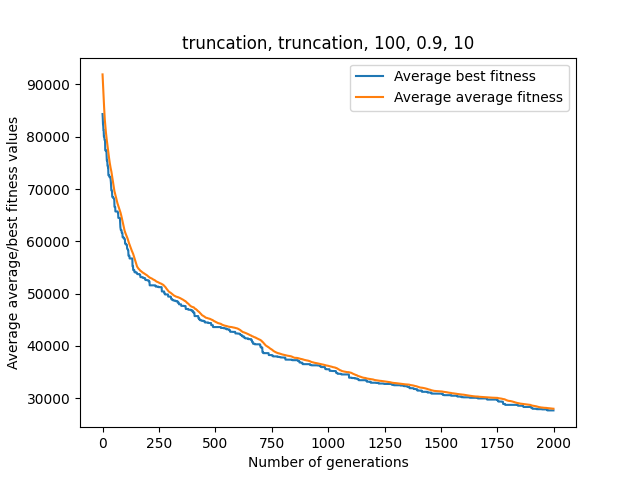
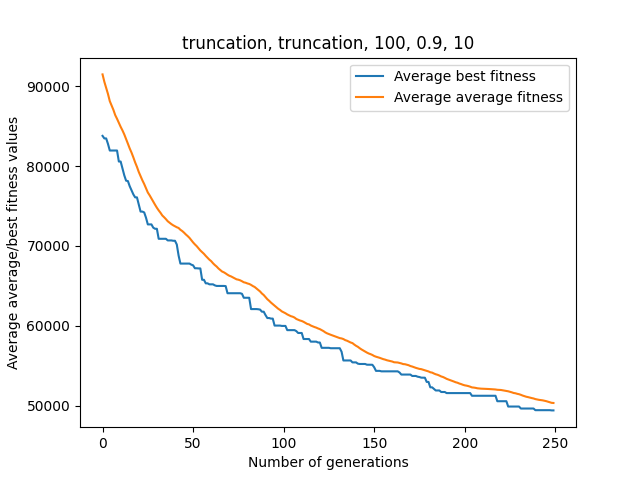
knapsack < => >

diff --git a/taichi_knap_island.py b/taichi_knap_island.py
@@ -1,5 +1,9 @@
 import taichi as ti
 import sys
+import time
+import numpy as np
+import math
+import matplotlib.pyplot as plt
 
 device = sys.argv[2]
 if(device == "gpu"):
@@ -57,7 +61,7 @@ def truncation_selection(self, isl_ind: ti.i32, res_opt: ti.i32):
 		# Sort the array based on fitness values
 		for i in range(POPULATION_SIZE):
 			for j in range(i + 1, POPULATION_SIZE):
-				if fitnesses[i] > fitnesses[j]:
+				if fitnesses[i] < fitnesses[j]:
 					fitnesses[i], fitnesses[j] = fitnesses[j], fitnesses[i]
 					indices[i], indices[j] = indices[j], indices[i]
 		
@@ -73,7 +77,7 @@ def truncation_selection(self, isl_ind: ti.i32, res_opt: ti.i32):
 		# Sort the array based on fitness values, nothing else is required
 		for i in range(POPULATION_SIZE + NUM_OFFSPRINGS):
 			for j in range(i + 1, POPULATION_SIZE + NUM_OFFSPRINGS):
-				if ISL_POPULATIONS[isl_ind, i].fitness > ISL_POPULATIONS[isl_ind, j].fitness:
+				if ISL_POPULATIONS[isl_ind, i].fitness < ISL_POPULATIONS[isl_ind, j].fitness:
 					ISL_POPULATIONS[isl_ind, i], ISL_POPULATIONS[isl_ind, j] = ISL_POPULATIONS[isl_ind, j], ISL_POPULATIONS[isl_ind, i]                
 
 		# for i in range(num_selections):
@@ -352,6 +356,8 @@ def run_islands_cpu(EA: EvolutionaryAlgorithm, num_islands: ti.i32, migration_st
 			best_index, avg_fitness = get_avg_fitnes_n_best_indiv_index(isl_ind)
 			best_index = ti.i32(best_index)
 			
+			BEST_FITNESS_GENERATION[i, isl_ind, 0] = ISL_POPULATIONS[isl_ind, best_index].fitness
+			BEST_FITNESS_GENERATION[i, isl_ind, 1] = avg_fitness
 		BEST_INDICES[isl_ind] = best_index	
 
 	
@@ -381,7 +387,36 @@ if __name__ == "__main__":
 		'run_generation': i_run_generation,
 		"migration": ring_migration
 	}	
-	EA = EvolutionaryAlgorithm(mutation_rate=0.5)	
-	run_islands(EA, NUM_ISLANDS, 1, NUM_GENERATIONS)
+	EA = EvolutionaryAlgorithm(mutation_rate=0.9)
+	starting_time = time.time()	
+	migration_step = 1
+	if(device == "gpu"):
+		run_islands(EA, NUM_ISLANDS, migration_step, NUM_GENERATIONS)
+	else:
+		run_islands_cpu(EA, NUM_ISLANDS, migration_step, NUM_GENERATIONS)
 	for isl_ind in range(NUM_ISLANDS):
 		print(ISL_POPULATIONS[isl_ind, BEST_INDICES[isl_ind]].fitness)
+	ending_time = time.time() - starting_time
+	
+	x = np.arange(1, NUM_GENERATIONS+1, 1)
+	y = []	
+	y1 = []
+
+	for i in range(NUM_GENERATIONS):
+		best_fitness = 0
+		average_fitness = 0
+		for j in range(NUM_ISLANDS):		
+			current = BEST_FITNESS_GENERATION[i, j, 0]
+			average_fitness += BEST_FITNESS_GENERATION[i, j, 1]
+			if(current > best_fitness):
+				best_fitness = current
+		y1.append(average_fitness/NUM_ISLANDS)
+		y.append(best_fitness)
+
+	print(y)
+	print(y1)
+	plt.plot(x, y, label="Best fitness")
+	plt.plot(x, y1, label="Average fitness")
+	plt.xlabel("Num generations")
+	plt.ylabel("Average/Best fitness")
+	plt.savefig("yeet.png")	

diff --git a/taichi_knap_readdata.py b/taichi_knap_readdata.py
@@ -56,8 +56,8 @@ def calculate_weight(genome):
 def calculate_fitness(genome):
     value = calculate_value(genome)
     weight = calculate_weight(genome)
-    fitness = ti.f64(ti.math.inf)
+    fitness = 0
     if weight < KNAPSACK_WEIGHT:
-        fitness = 1/value
+        fitness = value
     return fitness
         

diff --git a/tsp.py b/tsp.py
@@ -146,7 +146,7 @@ selection_pairs = [
                     # ('rank', 'binary', 100, 0.5, 100),
                   ]
 
-num_generations = 2000
+num_generations = 250
 num_iterations = 1
 x_offset = num_generations // num_generations
 
